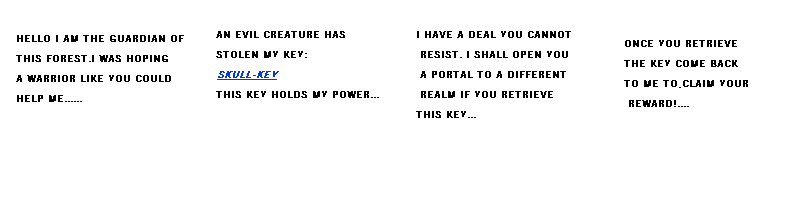
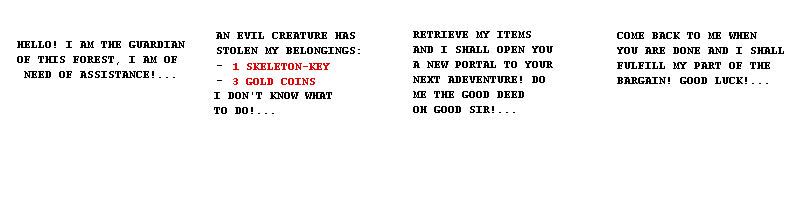
fixing dialogue and chest out of bounds

diff --git a/src/Worlds/World1.java b/src/Worlds/World1.java
@@ -41,9 +41,9 @@ public class World1 extends BaseWorld {
 		entityManager.addEntity(door = new Door(handler, 100, 0, GameState.caveWorld));
 		entityManager.addEntity(new Humanoid(handler, 256, 256, GameState.caveWorld, door));
 		entityManager.addEntity(new SkelyEnemy(handler, 1250, 500));
-		entityManager.addEntity(new Chest(handler, rand.nextInt((this.getWidth() * 64 - 64) + 1) + 64,
+		entityManager.addEntity(new Chest(handler, rand.nextInt((this.getWidth() * 64 - 128) + 1) + 128,
 				rand.nextInt((this.getHeight() * 64 - 64) + 1) + 64));
-		entityManager.addEntity(new Chest(handler, rand.nextInt((this.getWidth() * 64 - 64) + 1) + 64,
+		entityManager.addEntity(new Chest(handler, rand.nextInt((this.getWidth() * 64 - 128) + 1) + 128,
 				rand.nextInt((this.getHeight() * 64 - 64) + 1) + 64));
 		entityManager.getPlayer().setX(spawnX);
 		entityManager.getPlayer().setY(spawnY);

diff --git a/src/Game/Entities/Creatures/Humanoid.java b/src/Game/Entities/Creatures/Humanoid.java
@@ -35,8 +35,6 @@ public class Humanoid extends StaticEntity {
 	@Override
 	public void tick() {
 
-		System.out.println(missionStarted);
-
 		if (health < 100)
 			health = 100;
 
